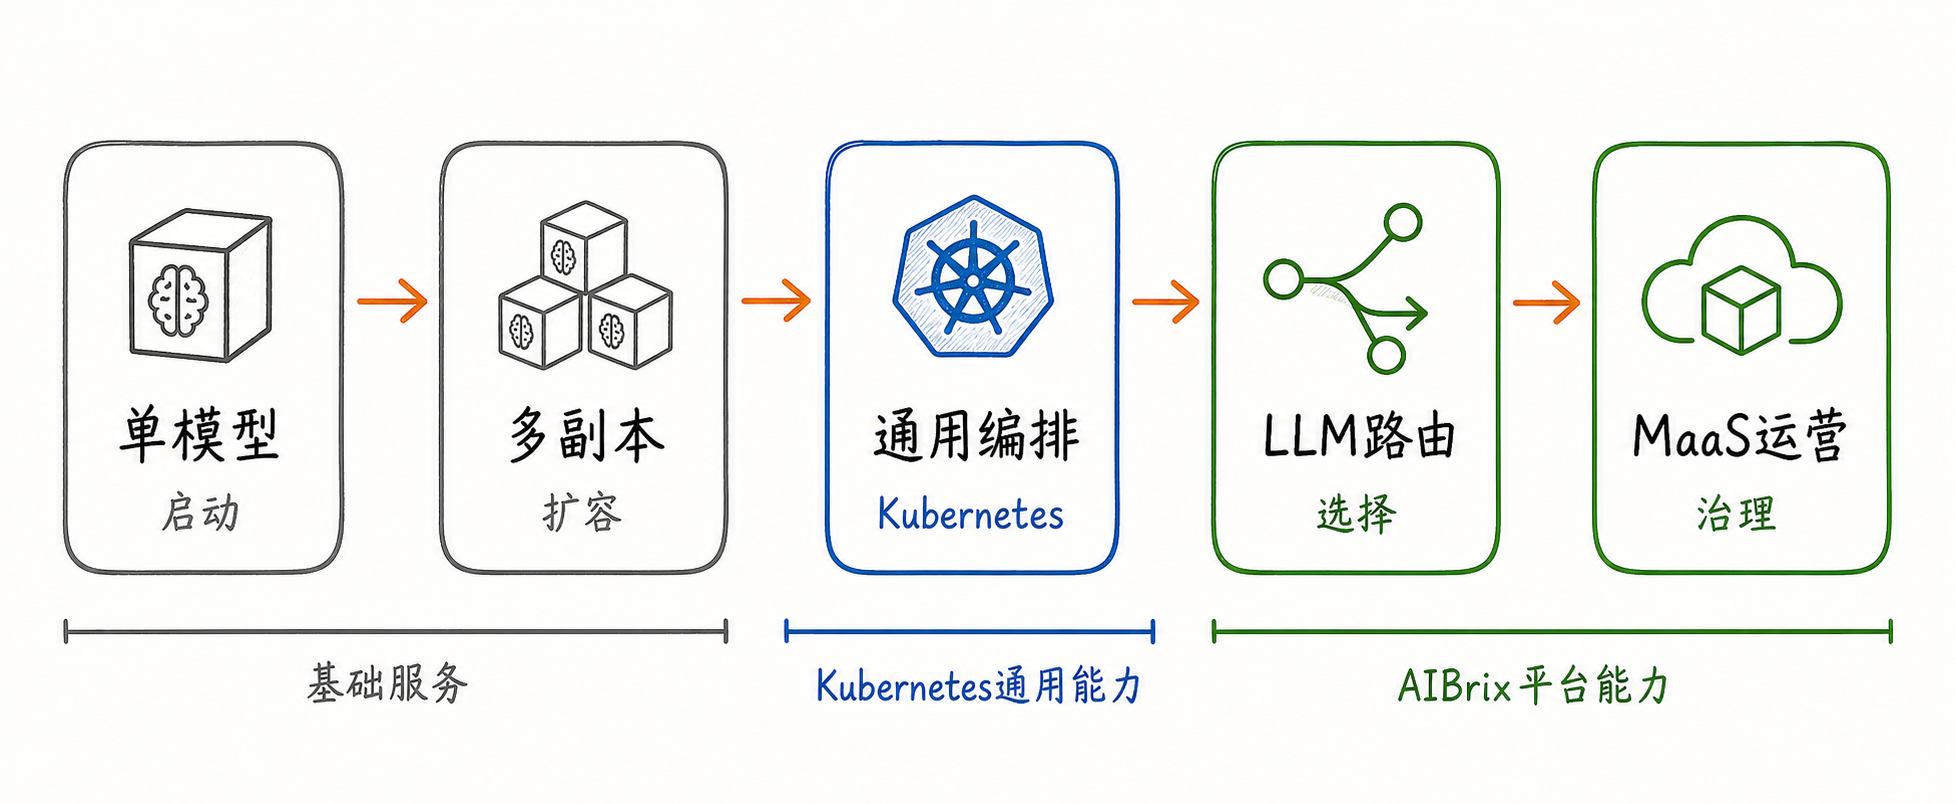
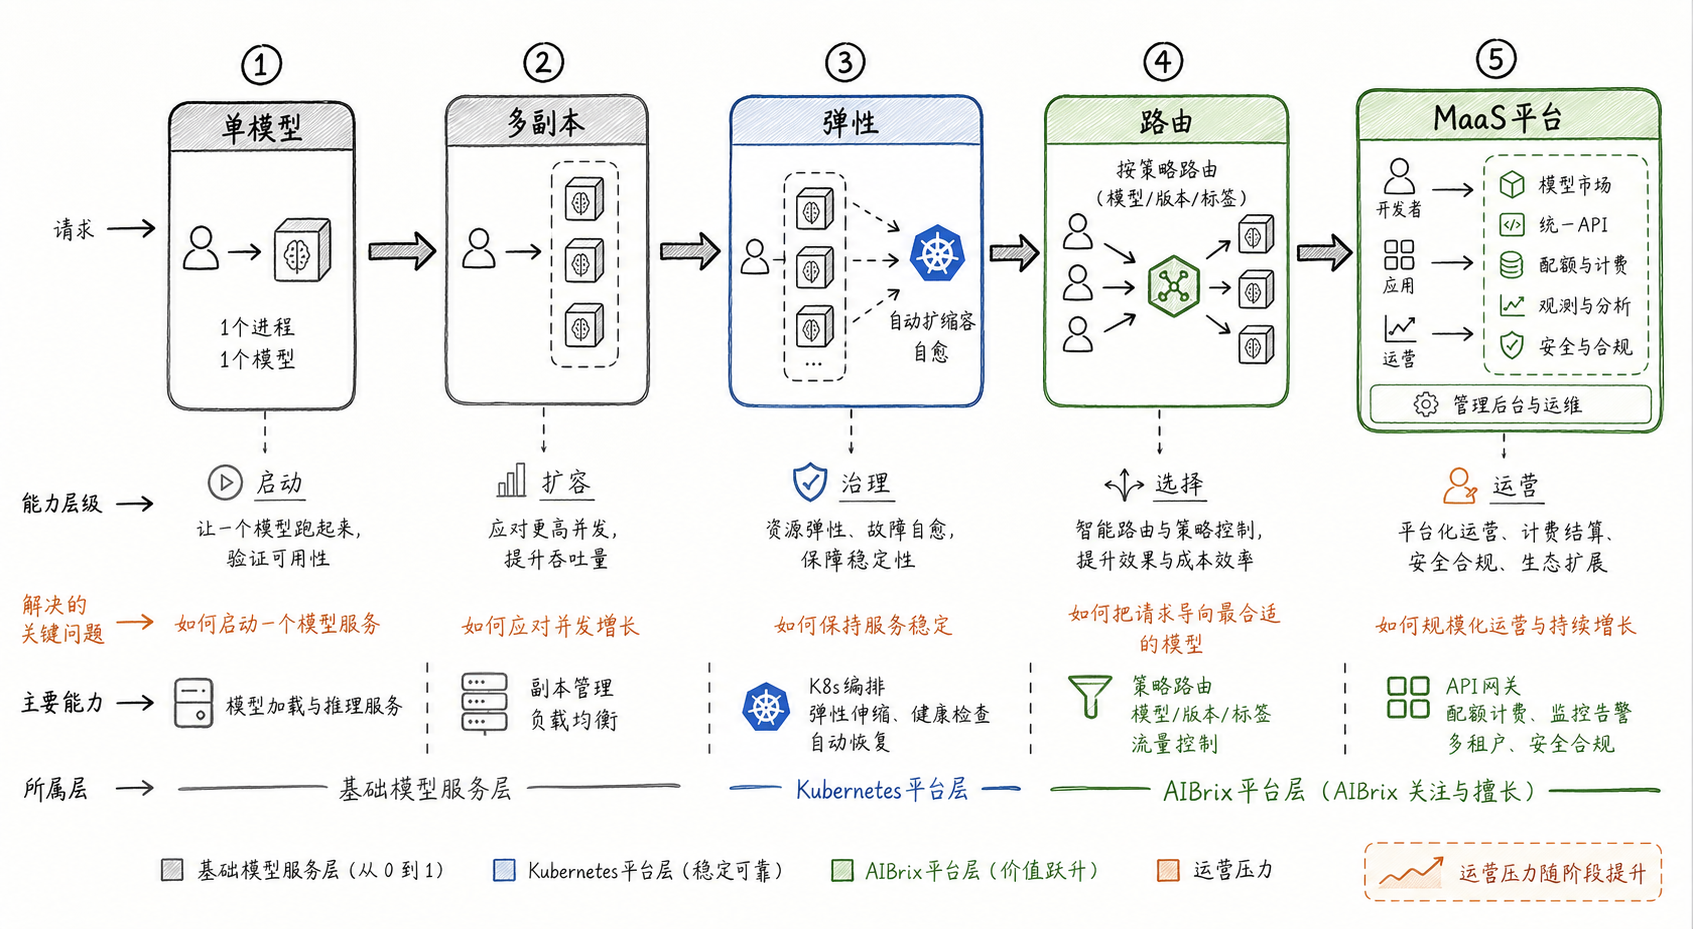
Refine AIBrix tutorial entry figure

diff --git a/notes/maas/aibrix架构与实现/01.AIBrix要解决什么问题.md b/notes/maas/aibrix架构与实现/01.AIBrix要解决什么问题.md
@@ -28,7 +28,13 @@ description: "本文从 LLM Serving 的工程问题出发，解释 AIBrix 为什
 
 ![图1：从单模型服务到 MaaS 平台的能力阶梯](assets/01/01-capability-ladder.png)
 
-图 1 展示的是能力层级，而不是产品功能清单。单模型阶段解决“启动”，多副本阶段解决“承载更多请求”，Kubernetes 提供副本、调度、Service、滚动更新、HPA 等通用编排能力。AIBrix 关注的是围绕模型副本的部署、选择、弹性与治理：平台怎样根据 LLM Serving 的特征做请求选择、LLM 语义下的弹性治理、缓存协同和长期运营。
+图 1 可以按四条线阅读。第一条线是能力层级：单模型解决“启动”，多副本解决“扩容”，弹性解决“稳定”，路由解决“选择”，MaaS 平台解决“运营”。这条线先把问题从“让一个模型跑起来”推进到“让一组模型服务长期可用”。
+
+第二条线是关键问题。每升一级，问题都会变得更接近生产环境：单模型阶段关心如何启动一个模型服务，多副本阶段关心如何应对并发增长，弹性阶段关心如何保持服务稳定，路由阶段关心如何把请求导向最合适的模型实例，MaaS 平台阶段关心如何规模化运营和持续增长。
+
+第三条线是主要能力。基础模型服务层负责模型加载与推理服务，Kubernetes 平台层提供通用编排、弹性伸缩、健康检查和自动恢复，AIBrix 平台层进一步补充策略路由、模型/版本/标签选择、流量控制、API 网关、配额计费、监控告警和多租户治理等平台能力。
+
+第四条线是所属层。右侧 MaaS 平台中的模型市场、统一 API、配额与计费、观测分析、安全与合规，可以先理解为平台运营的目标集合；本章不会逐项展开，而是先说明为什么这些能力需要建立在 LLM Serving 的路由、弹性和治理之上。
 
 因此，理解 AIBrix 的第一个关键点是：它不是为了替代推理引擎，也不是为了替代 Kubernetes。它试图补齐的是两者之间的空白：推理引擎负责把 token 算出来，Kubernetes 负责把容器调度起来，而 AIBrix 负责把这些推理实例组织成可运营的 MaaS（Model as a Service）能力。
 